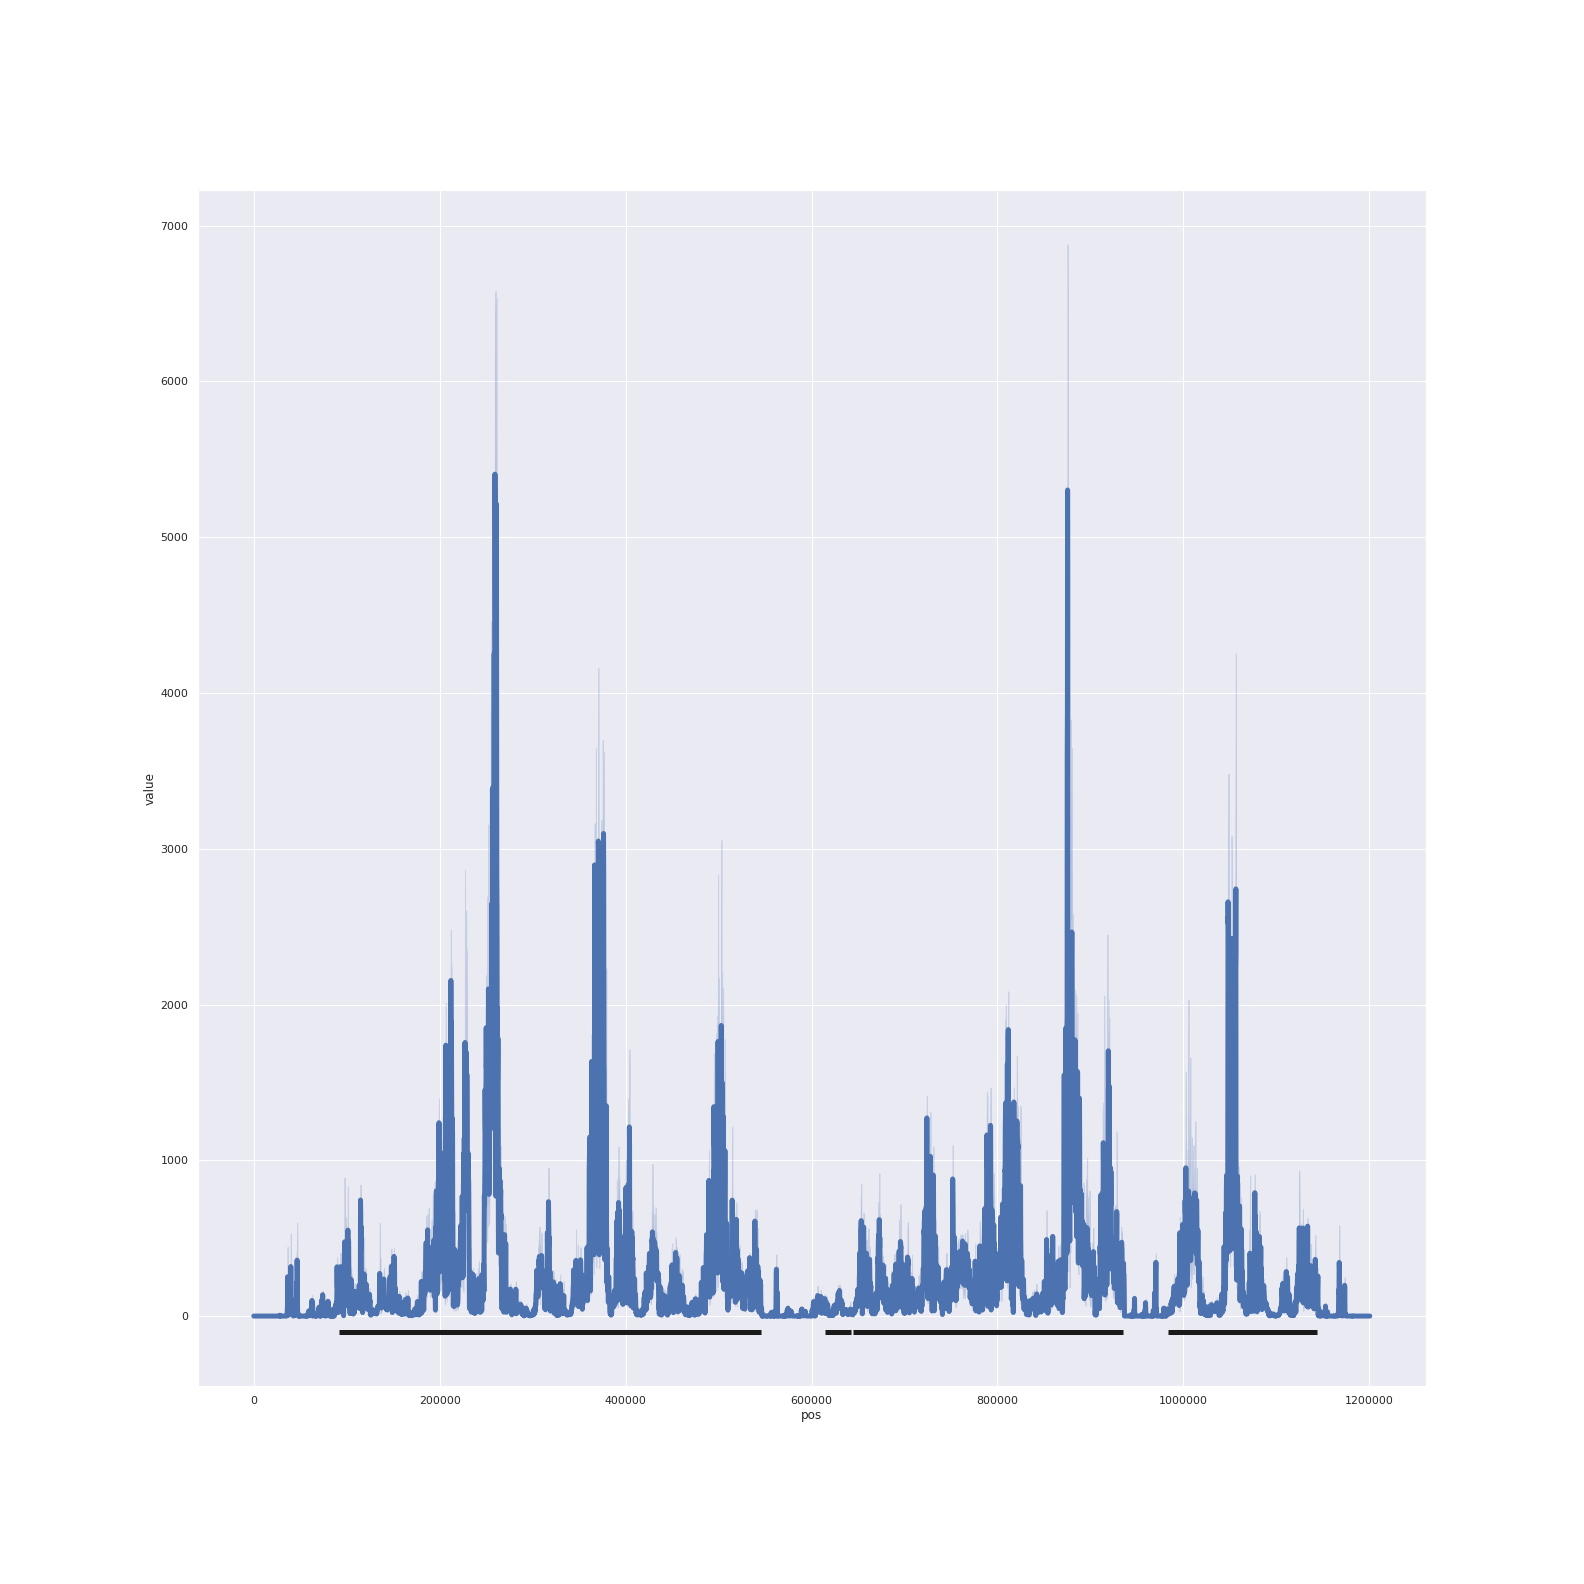
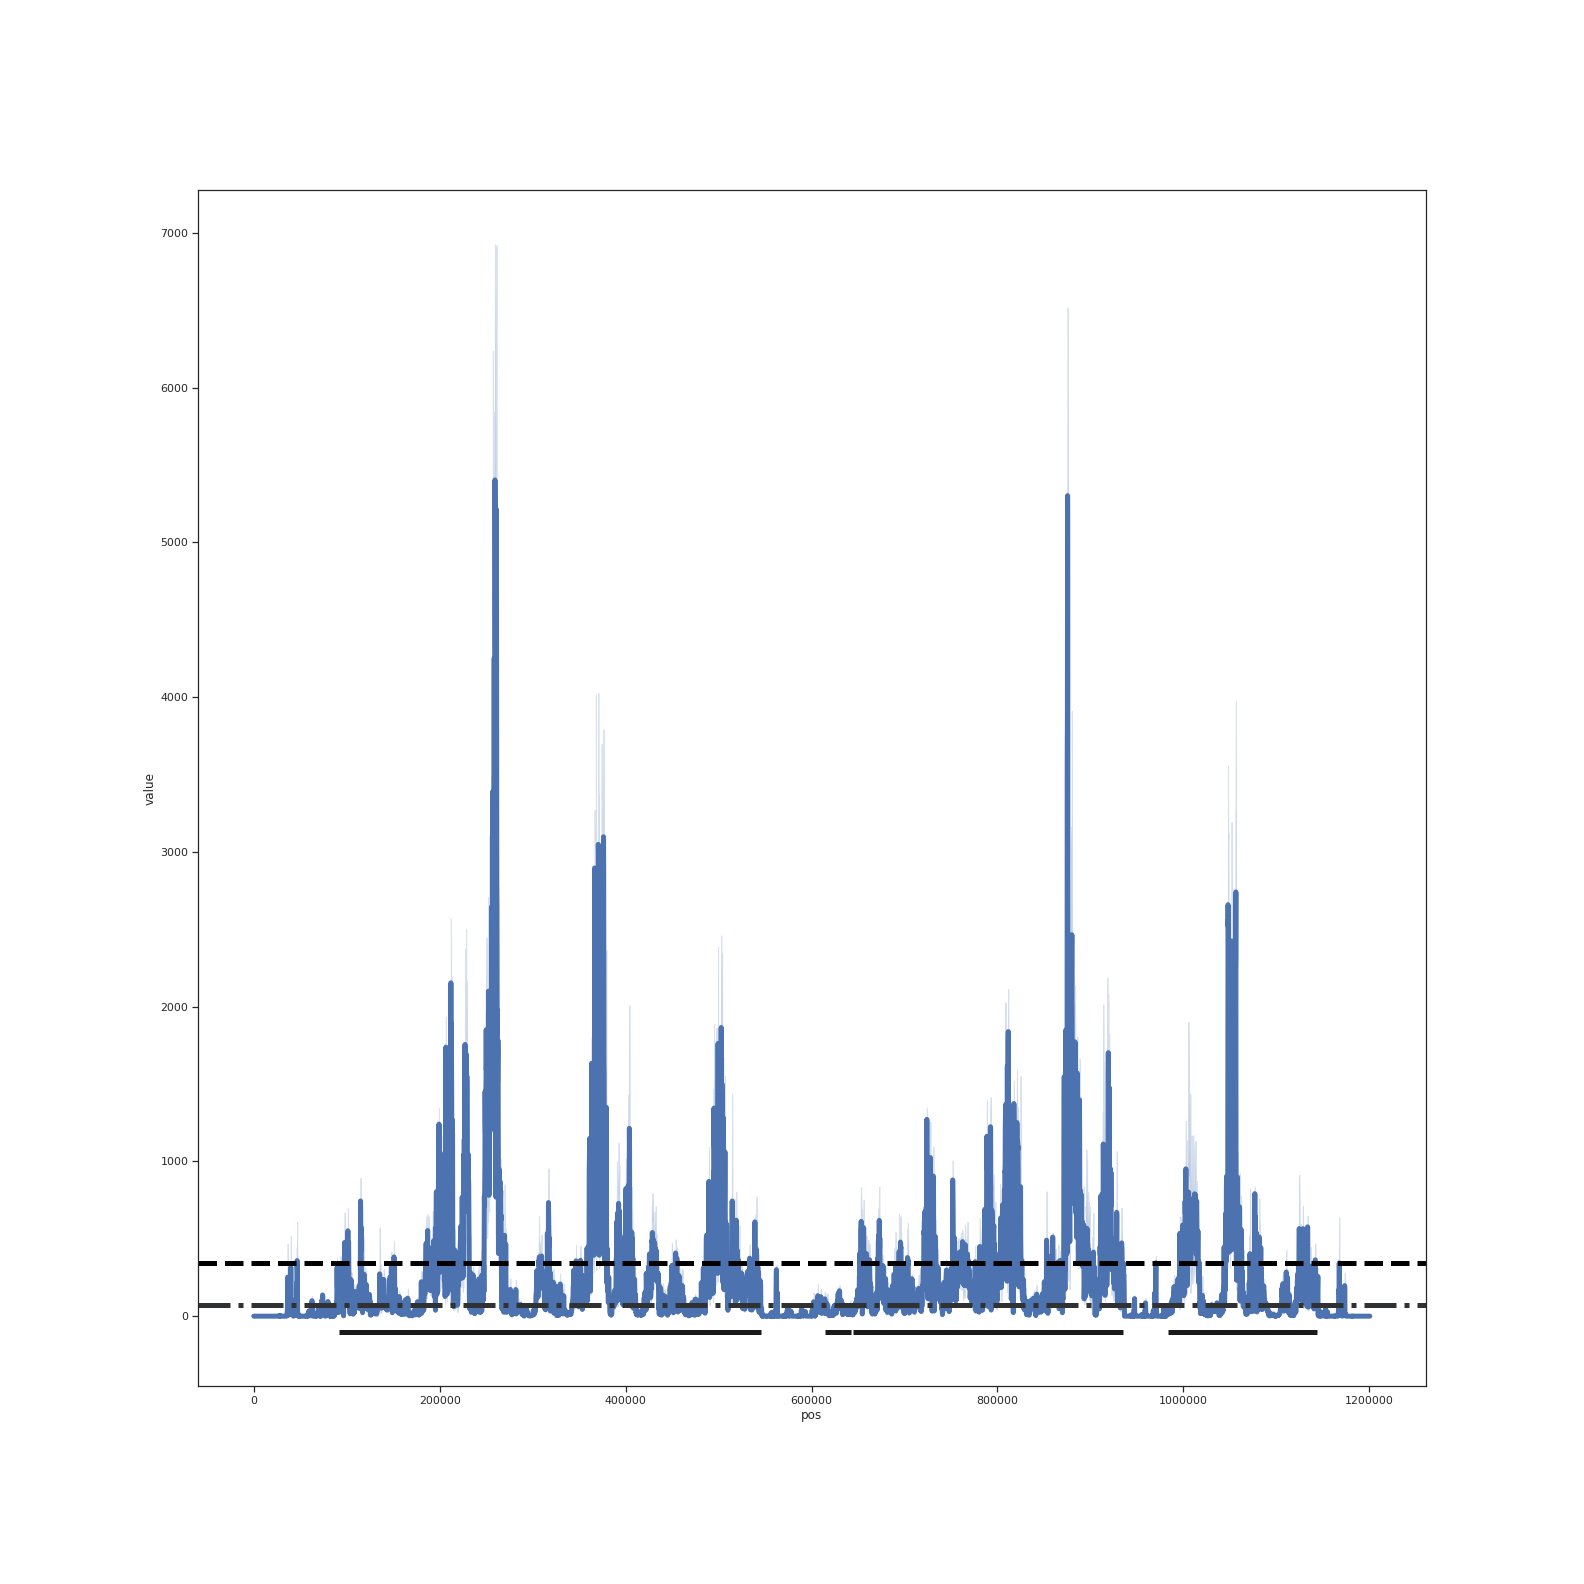
update replicate correlation // skewness + update to genome coverage

diff --git a/src/replicate_corr.py b/src/replicate_corr.py
@@ -7,7 +7,7 @@ import matplotlib.pyplot as plt
 
 from scipy.stats import kurtosis, skew
 
-sns.set(rc={'figure.figsize':(22, 22), 'lines.linewidth': 5})
+sns.set(rc={'figure.figsize':(22, 22), 'lines.linewidth': 5}, style='ticks')
 
 def add_sampleName(collapsed):
     """hacky method to add sampleNames"""
@@ -46,15 +46,26 @@ def wideform_chrom_pos(collapsed):
         columns='sampleName',
         values='depth')
     return wideform
+def normalize_depth(wideform, num_reads=4e7):
+    """normalize depth by sample to given value"""
+    normed = (wideform / wideform.sum(axis=0) * num_reads).reset_index()
+    normed = pd.melt(normed, id_vars=['chrom', 'pos'])
+    return normed
 def plot_replicate_correlation(rep_corr):
     """plot replicate correlation of chromosomes as boxplot"""
     # keep only core chromosomes
     rep_corr = rep_corr[(rep_corr.chrom != 'Pf3D7_API_v3') & (rep_corr.chrom != 'Pf_M76611')]
     g = sns.catplot(
-        x='density', y = 'correlation',
-        kind='box', col='swga',
-        row='extraction', height=10,
-        hue='digest', data=rep_corr)
+        x='swga',
+        y='correlation',
+        kind='boxen',
+        col='density',
+        row='extraction',
+        height=10,
+        hue='digest',
+        legend_out=False,
+        data=rep_corr)
+    g.set_titles('{row_name} + {col_name}p')
     g.savefig("../plots/replicate_correlation.png")
     plt.show()
     plt.close()
@@ -65,20 +76,20 @@ def plot_replicate_skewness(rep_skew):
 
     # measure skewness
     g = sns.catplot(
-        x='density', y = 'skew',
-        col='swga', row='extraction',
-        height=10, hue='digest',
-        kind='box',
+        x='swga',
+        y='skew',
+        col='density',
+        row='extraction',
+        height=10,
+        hue='digest',
+        kind='boxen',
         data=rep_skew)
+    g.set_titles('{row_name} + {col_name}p')
     g.savefig("../plots/sample_skewness.png")
     plt.show()
     plt.close()
-def plot_chrom_coverage(wideform, core, chrom='Pf3D7_01_v3'):
+def plot_chrom_coverage(normed, core, chrom='Pf3D7_01_v3'):
     """plot chromosome depth as line plot across chromosome"""
-
-    # normalize depth
-    normed = (wideform / wideform.sum(axis=0) * 4e7).reset_index()
-    normed = pd.melt(normed, id_vars=['chrom', 'pos'])
 
     # filter to chromosome
     core = core[core.chrom == chrom]
@@ -92,6 +103,8 @@ def plot_chrom_coverage(wideform, core, chrom='Pf3D7_01_v3'):
         ci=95,
         n_boot=20,
         estimator=np.median)
+    plt.axhline(normed['value'].mean(), color='black', xmin=0, xmax=normed['pos'].max(), linestyle='dashed')
+    plt.axhline(normed['value'].median(), color='#2f3133', xmin=0, xmax=normed['pos'].max(), linestyle='dashdot')
 
     # add core intervals
     core.apply(lambda x : plt.hlines(-100, x.left_pos, x.right_pos), axis=1)
@@ -114,11 +127,11 @@ def main():
     collapsed = add_sampleName(collapsed)
 
     wideform = wideform_chrom_pos(collapsed)
+    normed = normalize_depth(wideform)
 
     plot_replicate_correlation(rep_corr)
     plot_replicate_skewness(rep_skew)
-    [plot_chrom_coverage(wideform, core, chrom=i) for i in core.chrom.unique()]
-
+    [plot_chrom_coverage(normed, core, chrom=i) for i in core.chrom.unique()]
 
 if __name__ == '__main__':
     main()
